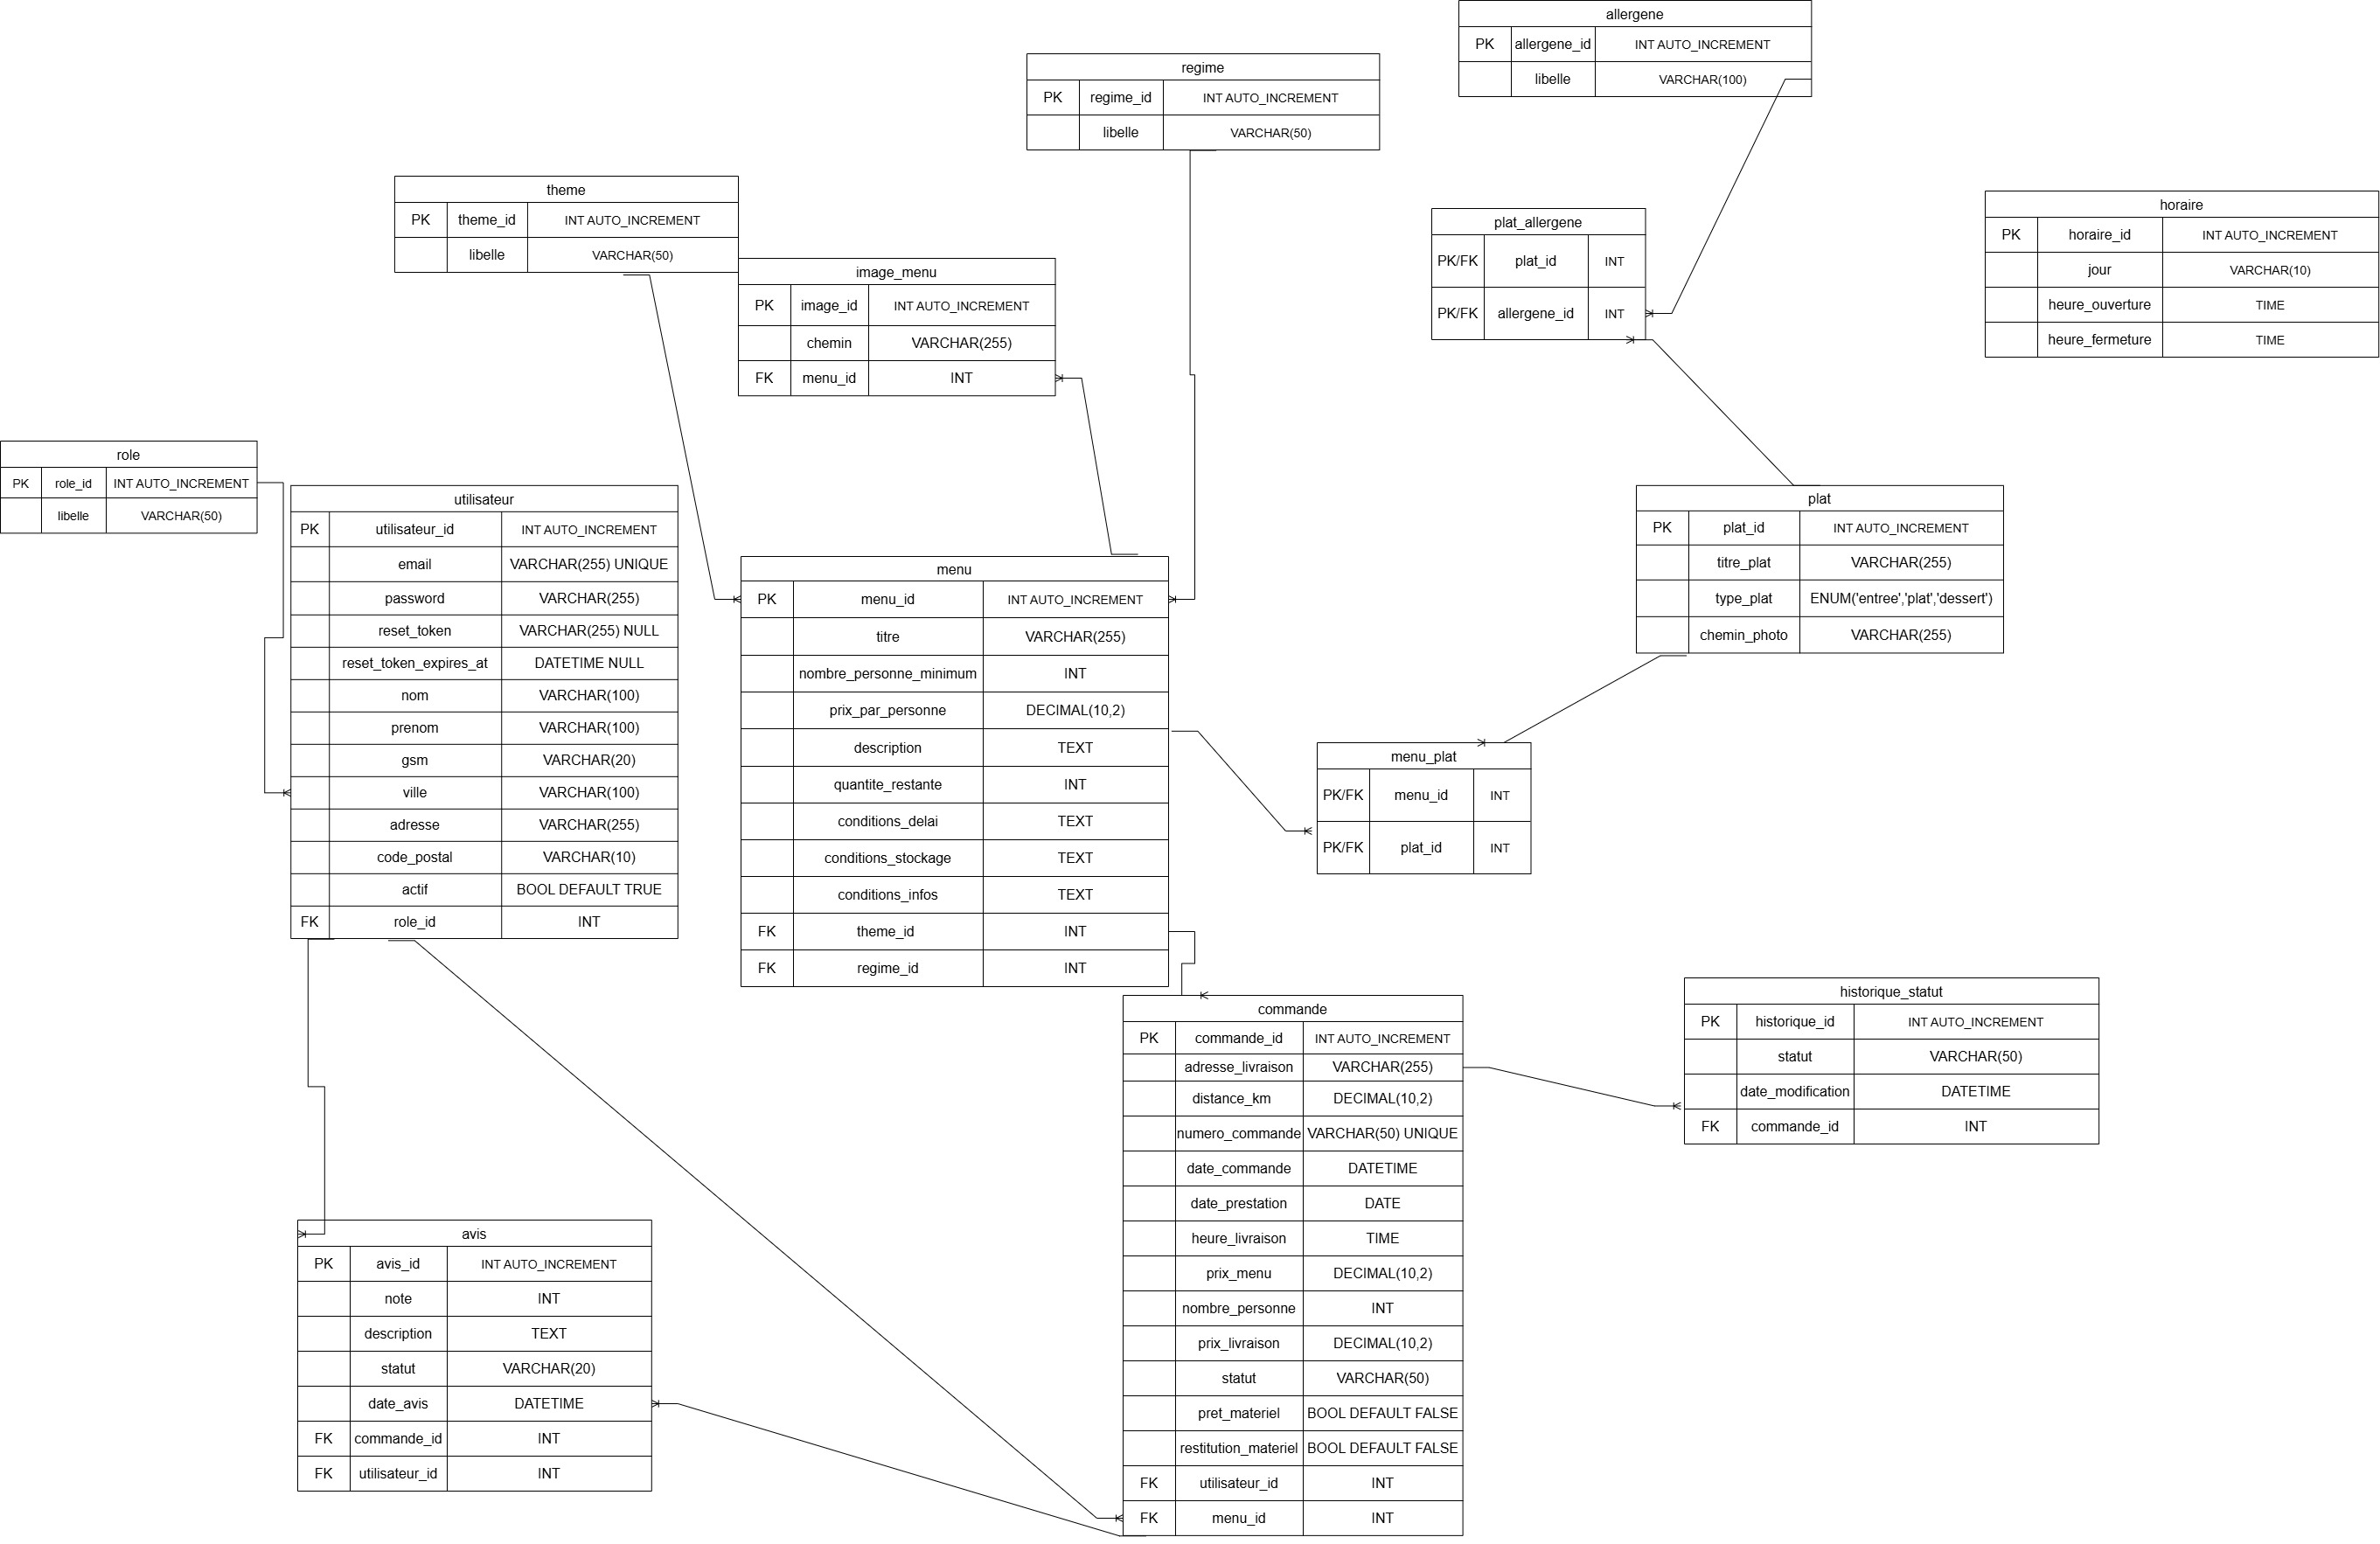
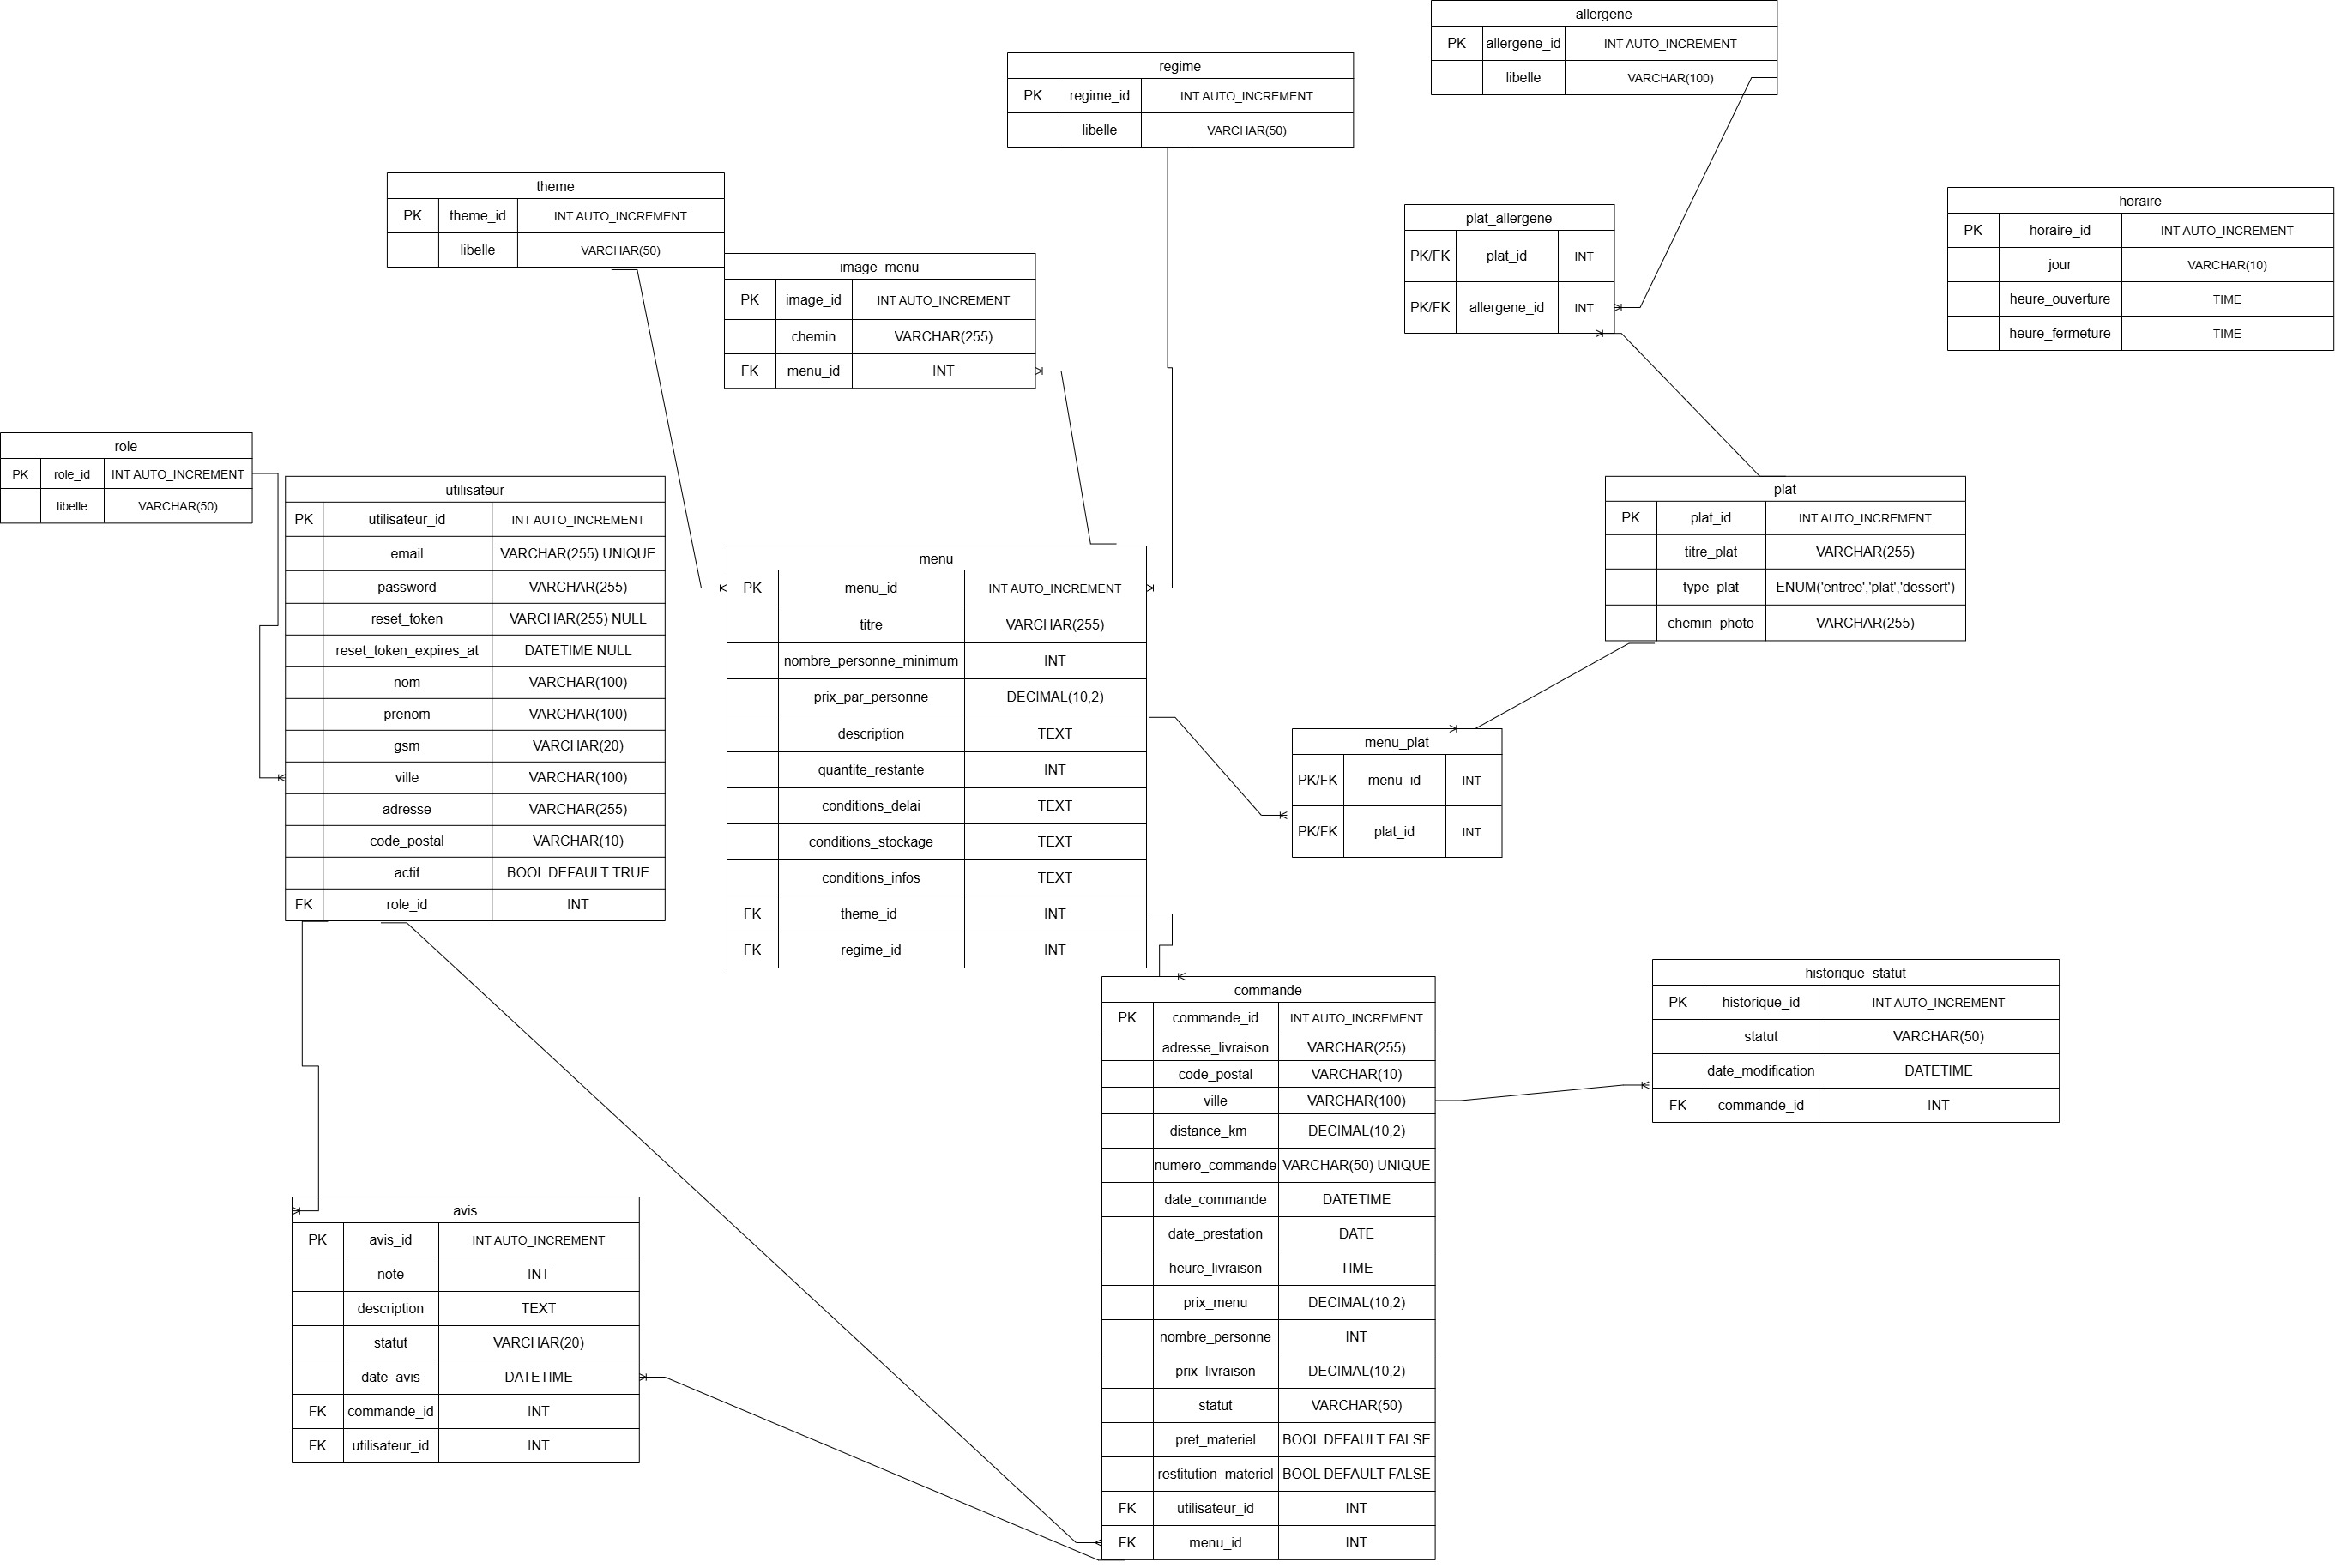
Ajout des colonnes ville et code_postal dans la table commande , ajout des variables dans CommandeController et showUpdate() ,Alias pour la methode findById() et modi createCommande() dans CommandeModel , affichage formulaire updateCommande.php , modif mcd et mld , ajout des routes

diff --git a/app/views/commande/updateCommande.php b/app/views/commande/updateCommande.php
@@ -1,0 +1,55 @@
+<?php
+require_once __DIR__ . '/../../views/layout/header.php';
+?>
+
+<main>
+    <h3><?= htmlspecialchars($menu['titre']) ?></h3>
+    <hr>
+    <h4>Prix/Personne :</h4>
+    <p><?= htmlspecialchars($menu['prix_par_personne']) ?></p>
+    <h4>Theme</h4>
+    <p><?= htmlspecialchars($menu['theme']) ?></p><br>
+    <h4>Regime</h4>
+    <p><?= htmlspecialchars($menu['regime']) ?></p><br>
+    <h5>Delai :</h5>
+    <p><?= htmlspecialchars($menu['conditions_delai']) ?></p><br>
+    <form action="/commandes/edit" method="POST">
+        <?= Auth::csrfField() ?>
+        <input type="hidden" name="commande_id" id="commande_id" value="<?= htmlspecialchars($commande['commande_id']) ?>">
+        <input type="hidden" name="distance_km" id="distance_km" value="0">
+
+        <label for="adresse_livraison">Adresse</label><br>
+        <input type="text" name="adresse_livraison" id="adresse_livraison" value="<?= htmlspecialchars($commande['adresse_livraison'] ?? '') ?>" required><br>
+        <small>Indiquez l'adresse du lieu de l'événement (salle des fêtes, domicile, lieu de réception...)</small><br>
+
+        <label for="code_postal">Code Postal</label><br>
+        <input type="text" name="code_postal" id="code_postal" value="<?= htmlspecialchars($commande['code_postal'] ?? '') ?>" required><br>
+
+        <label for="ville">Ville</label><br>
+        <input type="text" name="ville" id="ville" value="<?= htmlspecialchars($commande['ville'] ?? '') ?>" required><br>
+
+        <label for="utilisateur_gsm">Téléphone</label><br>
+        <input type="text" name="utilisateur_gsm" id="utilisateur_gsm" value="<?= htmlspecialchars($commande['utilisateur_gsm'] ?? '') ?>" required><br>
+
+        <label for="nombre_personne">Nombre de personnes</label><br>
+        <input type="number" name="nombre_personne" id="nombre_personne" value="<?= htmlspecialchars($commande['nombre_personne'] ?? '') ?>" required><br>
+
+        <label for="date_prestation">Date prestation</label><br>
+        <input type="date" name="date_prestation" id="date_prestation" value="<?= htmlspecialchars($commande['date_prestation'] ?? '') ?>" required><br>
+
+        <label for="heure_livraison">Heure livraison</label><br>
+        <input type="time" name="heure_livraison" id="heure_livraison" value="<?= htmlspecialchars($commande['heure_livraison'] ?? '') ?>" required><br>
+
+        <button type="button" id="calcul_frais">Calculer les frais</button>
+        <p id="errorMessage"></p>
+        <div id="resultatCalculFrais">
+            
+        </div>
+
+        <button type="submit" id="btnValider" disabled>Valider</button>
+    </form>
+</main>
+<script src="/assets/js/calculerPrix.js"></script>
+<?php
+require_once __DIR__ . '/../../views/layout/footer.php';
+?>

diff --git a/app/controllers/CommandeController.php b/app/controllers/CommandeController.php
@@ -197,6 +197,8 @@ class CommandeController{
 
         $data = [
             'adresse_livraison' => $adresse,
+            'ville' => $ville,
+            'code_postal' => $codePostal,
             'distance_km' => $_POST['distance_km'],
             'numero_commande' => $numeroCommande,
             'date_commande' => $dateCommande,
@@ -261,6 +263,23 @@ class CommandeController{
             exit();
         }else{
             $error = "Vous ne pouvez pas  annuler cette commande  . Elle est déjà acceptée .";
+            header('location: /profile?error=' . urlencode($error));
+            exit();
+        }
+    }
+
+    public function showUpdate(int $id){
+        Auth::checkAuth();
+        
+        $commande = $this->commandes->findById($id);
+        $menu_id = $commande['menu_id'];
+        $menu = $this->menu->findById($menu_id);
+        $horaire = $this->horaire->getHoraire();
+        $utilisateurId = $_SESSION['utilisateur_id'];
+        if($utilisateurId === $commande['utilisateur_id'] && $commande['statut'] === "en_attente"){
+            require_once __DIR__ . '/../views/commande/updateCommande.php';
+        }else{
+            $error = "Vous ne pouvez pas  modifier cette commande  . Elle est déjà acceptée .";
             header('location: /profile?error=' . urlencode($error));
             exit();
         }

diff --git a/app/models/CommandeModel.php b/app/models/CommandeModel.php
@@ -34,11 +34,11 @@ class CommandeModel{
         $stmt =$this->pdo->prepare("SELECT commande.* , 
                                     menu.titre AS titre ,
                                     CONCAT(utilisateur.prenom , ' ' , utilisateur.nom) as nom_complet,
-                                    utilisateur.ville ,
-                                    utilisateur.adresse,
-                                    utilisateur.code_postal,
-                                    utilisateur.email,
-                                    utilisateur.gsm
+                                    utilisateur.ville AS ville_utilisateur,
+                                    utilisateur.adresse AS utilisateur_adresse,
+                                    utilisateur.code_postal As utilisateur_code_postal,
+                                    utilisateur.email AS utilisateur_email,
+                                    utilisateur.gsm AS utilisateur_gsm
                                     FROM commande
                                     JOIN menu ON commande.menu_id = menu.menu_id
                                     JOIN utilisateur ON commande.utilisateur_id = utilisateur.utilisateur_id
@@ -57,9 +57,11 @@ class CommandeModel{
     }
 
     public function createCommande(array $data){
-        $stmt = $this->pdo->prepare("INSERT INTO commande (adresse_livraison , distance_km , numero_commande , date_commande , date_prestation , heure_livraison , prix_menu , nombre_personne , prix_livraison , statut , pret_materiel , utilisateur_id , menu_id )
-                                    VALUES (:adresse_livraison , :distance_km , :numero_commande , :date_commande , :date_prestation , :heure_livraison , :prix_menu , :nombre_personne , :prix_livraison , :statut , :pret_materiel ,  :utilisateur_id , :menu_id )");
+        $stmt = $this->pdo->prepare("INSERT INTO commande (adresse_livraison , ville , code_postal , distance_km , numero_commande , date_commande , date_prestation , heure_livraison , prix_menu , nombre_personne , prix_livraison , statut , pret_materiel , utilisateur_id , menu_id )
+                                    VALUES (:adresse_livraison ,:ville , :code_postal , :distance_km , :numero_commande , :date_commande , :date_prestation , :heure_livraison , :prix_menu , :nombre_personne , :prix_livraison , :statut , :pret_materiel ,  :utilisateur_id , :menu_id )");
         $stmt->bindValue(':adresse_livraison', $data['adresse_livraison'], PDO::PARAM_STR);
+        $stmt->bindValue(':ville', $data['ville'], PDO::PARAM_STR);
+        $stmt->bindValue(':code_postal', $data['code_postal'], PDO::PARAM_STR);
         $stmt->bindValue(':distance_km', $data['distance_km'], PDO::PARAM_STR);
         $stmt->bindValue(':numero_commande', $data['numero_commande'], PDO::PARAM_STR);
         $stmt->bindValue(':date_commande', $data['date_commande'], PDO::PARAM_STR);
@@ -89,4 +91,6 @@ class CommandeModel{
         $stmt->bindValue(':id' , $id , PDO::PARAM_INT);
         $stmt->execute();
     }
+
+    
 }

diff --git a/public/index.php b/public/index.php
@@ -122,6 +122,10 @@ $router->add('POST', '/commandes/create', 'CommandeController', 'create');
 $router->add('GET', '/commandes/create/{menu_id}', 'CommandeController', 'showForm');
 $router->add('POST' , '/commandes/annuler/{id}' , 'CommandeController' , 'annulerCommande');
 
+//Formulaire modification de commande
+$router->add('GET' , '/commandes/edit/{id}' , 'CommandeController' , 'showUpdate');
+$router->add('POST' , '/commandes/edit{id}' , 'CommandeController' , 'updateCommande');
+
 
 // Dispatch — cherche la route correspondante et appelle le bon controller/méthode
 $router->dispatch($url);

diff --git a/app/views/commande/userCommande.php b/app/views/commande/userCommande.php
@@ -42,6 +42,9 @@ require_once __DIR__ . '/../../views/layout/header.php';
             <?= Auth::csrfField() ?>
             <button type="submit">Annuler</button>
         </form>
+        <form action="/commandes/edit/<?= $commandes['commande_id'] ?>">
+            <button type="submit">Modifier</button>
+        </form>
     <?php endif ?>
 </main>
 <?php